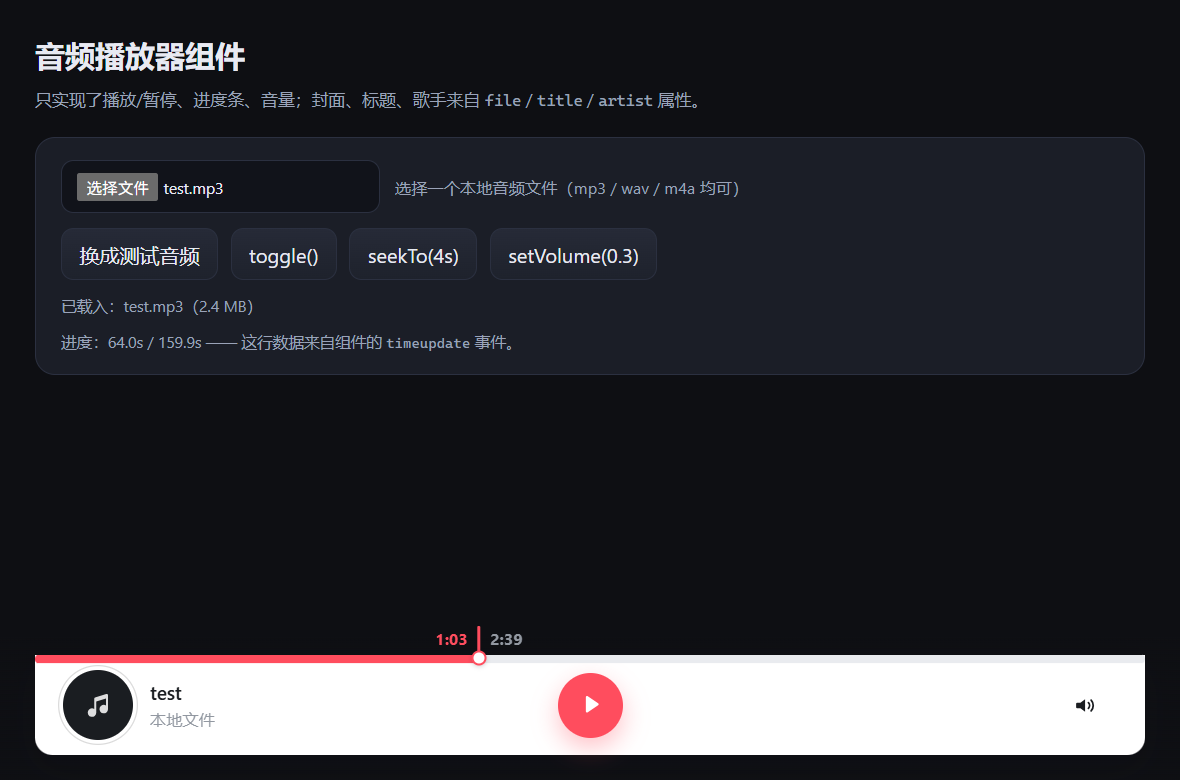
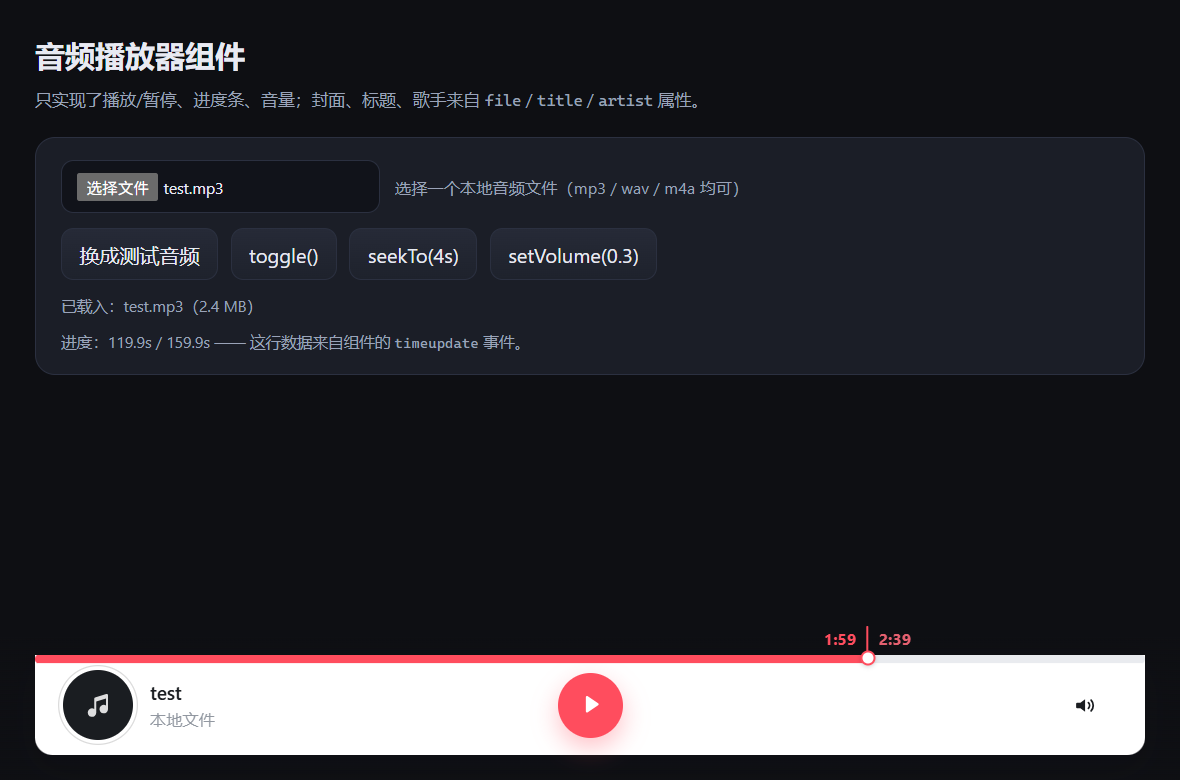
Add： 播放器ui基本完成（只支持mp3）

Changed region(s): [[0.3661, 0.8, 0.7627, 0.8615], [0.0915, 0.4308, 0.4576, 0.4615]]

diff --git a/renderer/src/components/AudioPlayer.vue b/renderer/src/components/AudioPlayer.vue
@@ -118,8 +118,21 @@ const tickDetach = computed(() => {
   return Math.min(1, Math.abs(desired - actual) / half)
 })
 
-const tickStyle = computed(() => {
-  const detach = tickDetach.value
+/**
+ * 右侧「总时长」的颜色：随整首歌的播放进度从灰渐变到红。
+ * 0% 时是灰（--mp-dim），100% 时是主题红（--mp-accent）。
+ */
+const totalLabelStyle = computed(() => {
+  const percent = Math.round(playedRatio.value * 100)
+  return {
+    color:
+      percent >= 100
+        ? 'var(--mp-accent)'
+        : `color-mix(in srgb, var(--mp-accent) ${percent}%, var(--mp-dim))`,
+  }
+})
+
+const tickStyle = computed(() => {  const detach = tickDetach.value
   const width = progressWidth.value
   const half = timeGroupHalf.value
   const desired = playedRatio.value * width
@@ -429,7 +442,7 @@ defineExpose({ play, pause, toggle, seekTo, setVolume, toggleMute, audioEl, play
       <span ref="timeGroupEl" class="mp-time-group" :style="timeGroupStyle" aria-hidden="true">
         <span class="mp-time mp-time-played">{{ formatTime(currentTime) }}</span>
         <span class="mp-time-gap" :style="tickStyle" />
-        <span class="mp-time mp-time-total">{{ formatTime(duration) }}</span>
+        <span class="mp-time mp-time-total" :style="totalLabelStyle">{{ formatTime(duration) }}</span>
       </span>
 
       <div class="mp-progress-track">
@@ -627,8 +640,10 @@ defineExpose({ play, pause, toggle, seekTo, setVolume, toggleMute, audioEl, play
 }
 
 .mp-time-total {
+  /* 颜色由播放进度决定（totalLabelStyle），这里只给兜底色和顺滑过渡 */
   color: var(--mp-dim);
   font-weight: 700;
+  transition: color 0.25s linear;
 }
 
 .mp-progress:hover .mp-time-group,

diff --git a/README.md b/README.md
@@ -171,7 +171,7 @@ function onPick(event: Event) {
 > - 点与竖线相距 ≤ 阈值（默认约 7px，即脱开程度 < 0.2）→ **全长**；
 > - 超过阈值（已经脱开）→ **固定的短**（约为 `--mp-tick-h` 的 40%）；
 > - 跨过阈值的那一下由 `transition: height .18s` 播放成动画，中间不会出现任何中间长度；
-> - 颜色：**左端**会从灰渐变回红；**右端**恒为主题红、不变色。
+> - 颜色：**左侧已播放数字**恒为主题红（左端竖标会从灰渐变回红）；**右侧总时长数字**的颜色随整首歌的播放进度**从灰渐变到红**（`color-mix` 按播放百分比混合，配 `transition: color .25s linear`），放到结尾时两边都是红色。
 
 例：想把竖标做得更醒目：
 
